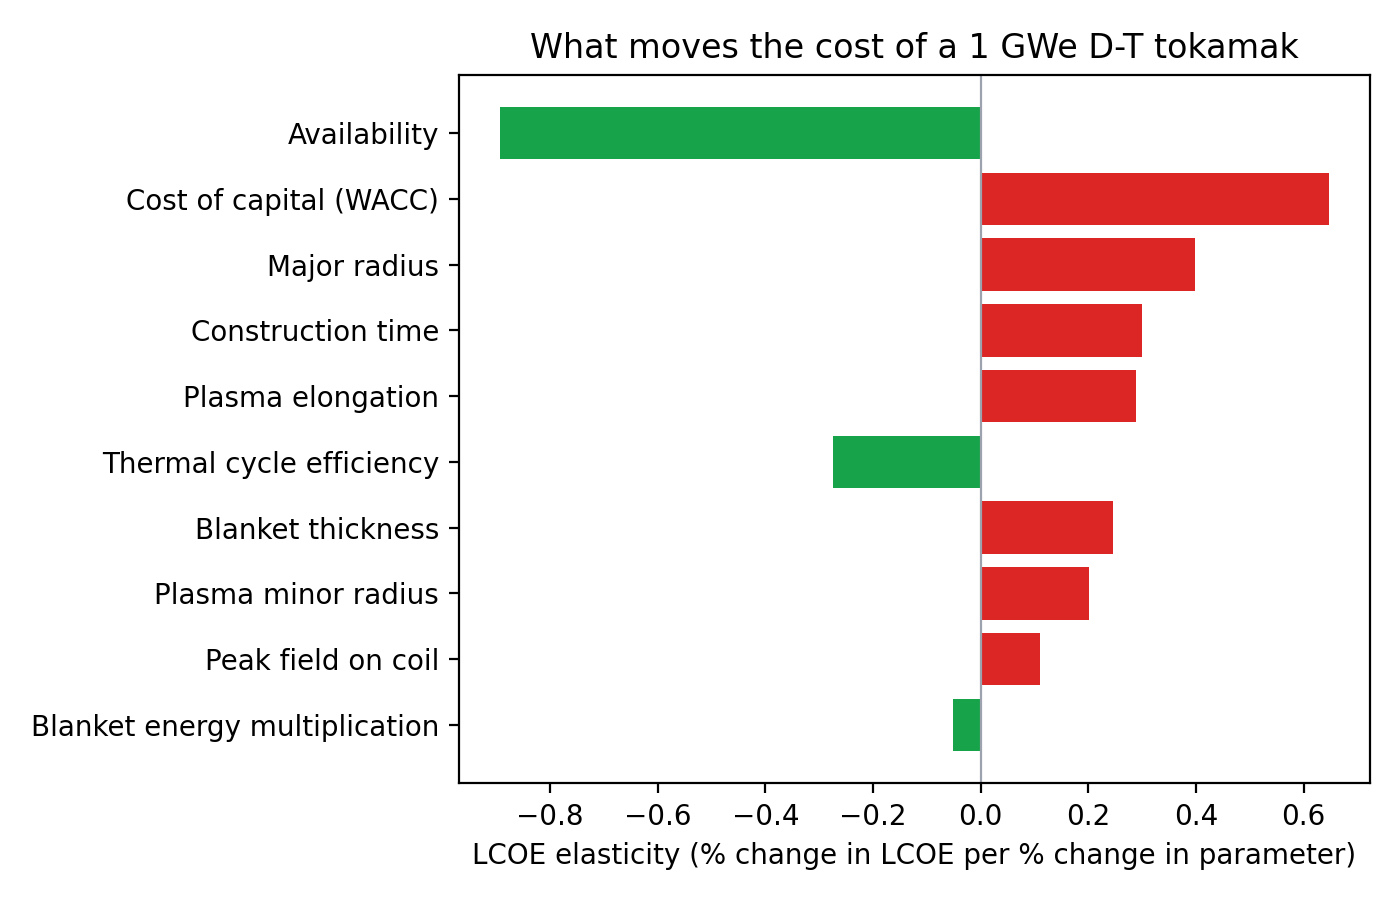
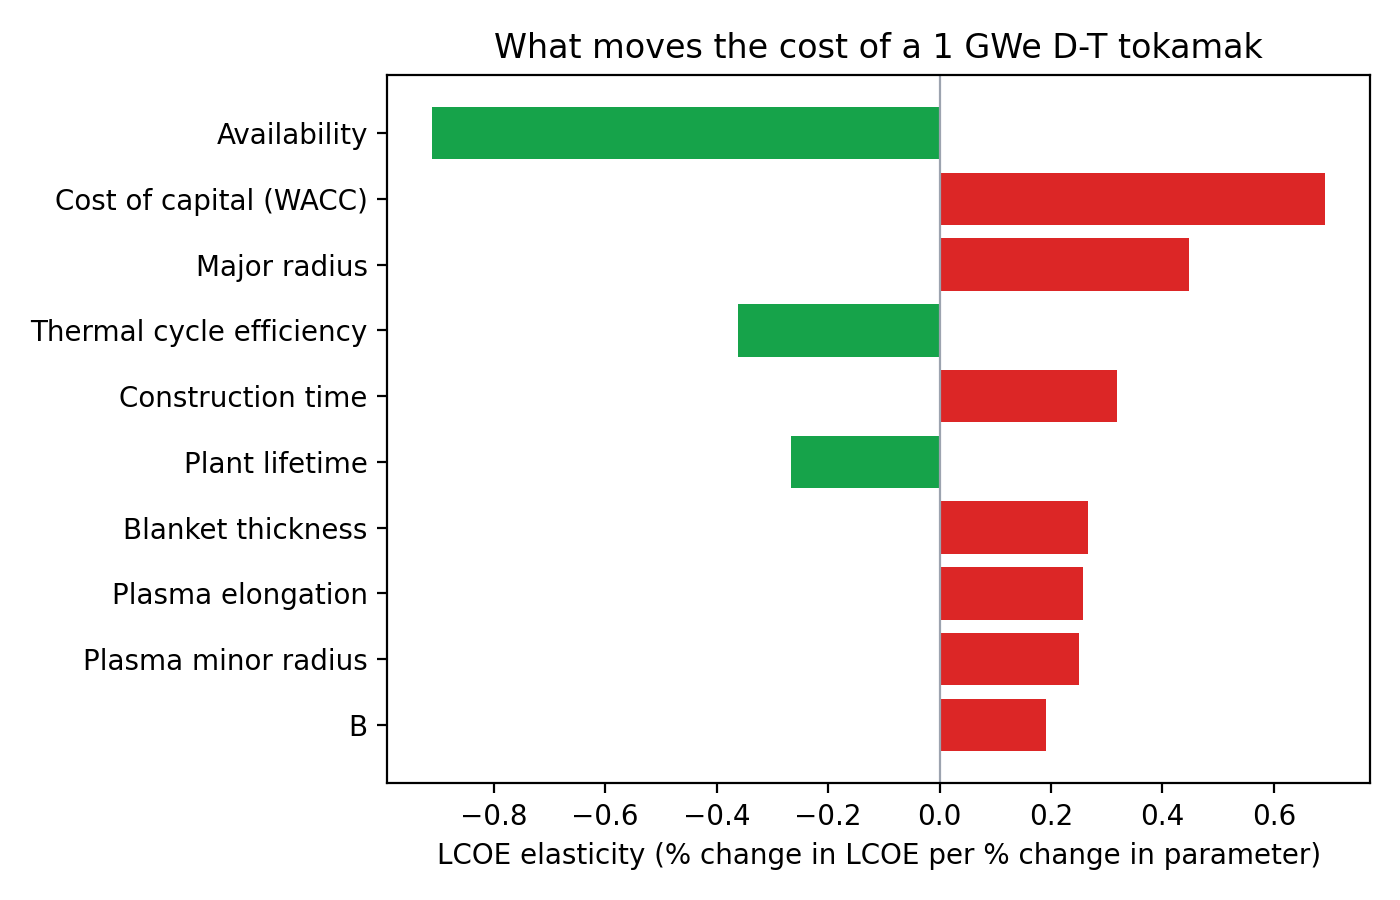
blog #3: use capital_per_kw for $/kW figure (issue #34); refresh tokamak numbers and figures to master baseline

diff --git a/docs/blog/3 Intro/1costingfe-intro-post.md b/docs/blog/3 Intro/1costingfe-intro-post.md
@@ -6,7 +6,7 @@ This post hands you that codebase. [1costingFE](https://github.com/1cFE/1costing
 
 ## What it is
 
-1costingFE is a costing framework. In: a confinement concept, a fuel, and a design point, the geometry that drives the component costs and the net electric power that fills the LCOE denominator. Out: a levelized cost of electricity, an account-by-account cost breakdown, and the closed power balance behind them. It is calibrated and traceable through the [account justification documents](https://github.com/1cFE/1costingfe/tree/v0.1.0-alpha.1/docs/account_justification): one document per cost account, recording what the number is calibrated against and where the uncertainty lives.
+1costingFE is a costing framework. Its inputs are: a confinement concept, a fuel, and a design point, the geometry that drives the component costs and the net electric power that fills the LCOE denominator. It outputs: a levelized cost of electricity, an account-by-account cost breakdown, and the closed power balance behind them. It is calibrated and traceable through the [account justification documents](https://github.com/1cFE/1costingfe/tree/v0.1.0-alpha.1/docs/account_justification): one document per cost account, recording what the number is calibrated against and where the uncertainty lives.
 
 It is composed of three modules:
 
@@ -53,7 +53,7 @@ result = model.forward(
 )
 
 print(f"LCOE: ${float(result.costs.lcoe):.1f}/MWh")
-print(f"Total capital: ${float(result.costs.overnight_cost):,.0f}/kW")
+print(f"Total capital: ${float(result.costs.capital_per_kw):,.0f}/kW")
 subaccounts = {
     k: v for k, v in result.cas22_detail.items()
     if k != "C220000" and not k.startswith("C220106_")
@@ -65,16 +65,16 @@ for code, value in sorted(subaccounts.items(), key=lambda kv: -kv[1])[:5]:
 which prints, on a fresh install:
 
 ```
-LCOE: $85.3/MWh
-Total capital: $6,048/kW
-  C220103: $515M
-  C220101: $424M
-  C220111: $285M
-  C220102: $284M
+LCOE: $108.7/MWh
+Total capital: $8,262/kW
+  C220103: $1133M
+  C220101: $805M
+  C220102: $467M
+  C220111: $467M
   C220104: $279M
 ```
 
-That is a 1 GWe D-T tokamak at 85% availability over a 30-year life; the capital figure includes interest during construction and is quoted per kW of net capacity. The five largest reactor-plant items are the magnets (C220103), the blanket and first wall (C220101), installation labor (C220111), the shield (C220102), and heating and current drive (C220104). The returned object also carries the full power balance from fusion power to grid, every intermediate parameter by name, and the set of accounts your inputs overrode.
+That is a 1 GWe D-T tokamak at 85% availability over a 30-year life; the capital figure includes interest during construction and is quoted per kW of net capacity. The five largest reactor-plant items are the magnets (C220103), the blanket and first wall (C220101), the shield (C220102), installation labor (C220111), and heating and current drive (C220104). The returned object also carries the full power balance from fusion power to grid, every intermediate parameter by name, and the set of accounts your inputs overrode.
 
 Swap the two enums and the same call costs a pulsed FRC burning D-He3 or a laser IFE plant burning D-T. The `examples/` folder has 26 scripts, including the ones that reproduce the numbers in the cost-floor and DEC posts, and the per-account justification documents live in `docs/account_justification/`.
 
@@ -85,10 +85,10 @@ If you work on fusion, there is probably one piece of this plant you know better
 **You have a better design point.** Every concept's engineering parameters live in a YAML defaults file (`src/costingfe/data/defaults/steady_state_tokamak.yaml` and sixteen siblings), and any of them can be overridden per call:
 
 ```yaml
-b_center: 12.0       # Field at coil center [T]
-R0: 3.0              # Major radius R0
-plasma_t: 1.1        # Minor radius a
-elon: 3.0            # Elongation kappa
+B: 10.0              # On-axis toroidal field [T]
+R0: 6.041            # Major radius R0
+plasma_t: 2.014      # Minor radius a
+elon: 1.85           # Elongation kappa
 blanket_t: 0.80      # Blanket thickness
 f_GW: 0.85           # Greenwald density fraction
 ```
@@ -120,7 +120,7 @@ print(f"Overridden accounts: {result.overridden}")
 ```
 
 ```
-LCOE: $84.6/MWh
+LCOE: $97.5/MWh
 Overridden accounts: ['C220103']
 ```
 
@@ -141,14 +141,14 @@ for key, e in sorted(
 ```
 
 ```
-availability             -0.89
-interest_rate            +0.65
-R0                       +0.40
-construction_time_yr     +0.30
-elon                     +0.29
-eta_th                   -0.28
-blanket_t                +0.25
-plasma_t                 +0.20
+availability             -0.91
+interest_rate            +0.69
+R0                       +0.45
+eta_th                   -0.36
+construction_time_yr     +0.32
+lifetime_yr              -0.27
+blanket_t                +0.27
+elon                     +0.26
 ```
 
 These are elasticities: percent change in LCOE per percent change in the parameter.